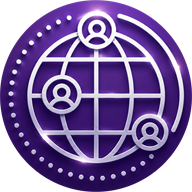
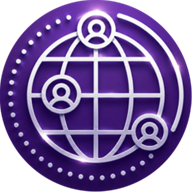
does

diff --git a/index.html b/index.html
@@ -4,13 +4,14 @@
     <!-- GA4 loaded from scheduleAnalytics.js after interaction / idle -->
     <meta charset="UTF-8" />
     <!-- Browser identity / favicons -->
-    <link rel="icon" type="image/x-icon" href="/favicon.ico?v=20260527-1" sizes="any" />
-    <link rel="icon" type="image/png" href="/favicon-16x16.png?v=20260527-1" sizes="16x16" />
-    <link rel="icon" type="image/png" href="/favicon-32x32.png?v=20260527-1" sizes="32x32" />
-    <link rel="apple-touch-icon" sizes="180x180" href="/apple-touch-icon.png?v=20260527-1" />
-    <link rel="icon" type="image/png" sizes="192x192" href="/android-chrome-192x192.png?v=20260527-1" />
-    <link rel="icon" type="image/png" sizes="512x512" href="/android-chrome-512x512.png?v=20260527-1" />
-    <link rel="manifest" href="/manifest.webmanifest?v=20260527-1" />
+    <link rel="icon" type="image/x-icon" href="/favicon.ico?v=20260530-1" sizes="any" />
+    <link rel="icon" type="image/png" href="/favicon-16x16.png?v=20260530-1" sizes="16x16" />
+    <link rel="icon" type="image/png" href="/favicon-32x32.png?v=20260530-1" sizes="32x32" />
+    <link rel="icon" type="image/png" href="/favicon-48x48.png?v=20260530-1" sizes="48x48" />
+    <link rel="apple-touch-icon" sizes="180x180" href="/apple-touch-icon.png?v=20260530-1" />
+    <link rel="icon" type="image/png" sizes="192x192" href="/android-chrome-192x192.png?v=20260530-1" />
+    <link rel="icon" type="image/png" sizes="512x512" href="/android-chrome-512x512.png?v=20260530-1" />
+    <link rel="manifest" href="/manifest.webmanifest?v=20260530-1" />
     <meta name="apple-mobile-web-app-title" content="iFranchise" />
     <meta name="apple-mobile-web-app-status-bar-style" content="black-translucent" />
     <meta name="application-name" content="iFranchise" />
@@ -33,14 +34,14 @@
       content="Build, invest, or expand with India's trusted franchise marketplace and growth partner."
     />
     <meta property="og:url" content="https://www.ifranchise.in/" />
-    <meta property="og:image" content="https://www.ifranchise.in/apple-touch-icon.png?v=20260527-1" />
+    <meta property="og:image" content="https://www.ifranchise.in/apple-touch-icon.png?v=20260530-1" />
     <meta name="twitter:card" content="summary_large_image" />
     <meta name="twitter:title" content="iFranchise — Franchise Growth Platform for India" />
     <meta
       name="twitter:description"
       content="Build, invest, or expand with India's trusted franchise marketplace and growth partner."
     />
-    <meta name="twitter:image" content="https://www.ifranchise.in/apple-touch-icon.png?v=20260527-1" />
+    <meta name="twitter:image" content="https://www.ifranchise.in/apple-touch-icon.png?v=20260530-1" />
     <link rel="sitemap" type="application/xml" title="Sitemap" href="/sitemap.xml" />
     <script>
       (function(){try{var k='ifranchise-theme-preference',sk='ifranchise-theme-source',s=localStorage.getItem(k),src=localStorage.getItem(sk),t;if(src==='manual'&&(s==='dark'||s==='light'))t=s;else if(!src&&(s==='dark'||s==='light')){t=s;try{localStorage.setItem(sk,'manual')}catch(e){}}else t=window.matchMedia('(prefers-color-scheme: dark)').matches?'dark':'light';var r=document.documentElement;r.setAttribute('data-theme',t);r.classList.toggle('dark',t==='dark');r.style.colorScheme=t;var m=document.querySelector('meta[name="theme-color"]');if(m)m.setAttribute('content',t==='dark'?'#0a0618':'#f8f9fc');}catch(e){document.documentElement.setAttribute('data-theme','dark');document.documentElement.classList.add('dark');document.documentElement.style.colorScheme='dark';}})();

diff --git a/src/seo/config.js b/src/seo/config.js
@@ -17,7 +17,7 @@ export const SITE_URL = (
 export const SITE_TAGLINE = "India's Trusted Franchise Growth Platform";
 
 // Bump this whenever icon assets are regenerated to avoid stale browser caches.
-export const ICON_VERSION = '20260527-1';
+export const ICON_VERSION = '20260530-1';
 
 export const DEFAULT_OG_IMAGE_PATH = `/apple-touch-icon.png?v=${ICON_VERSION}`;
 
